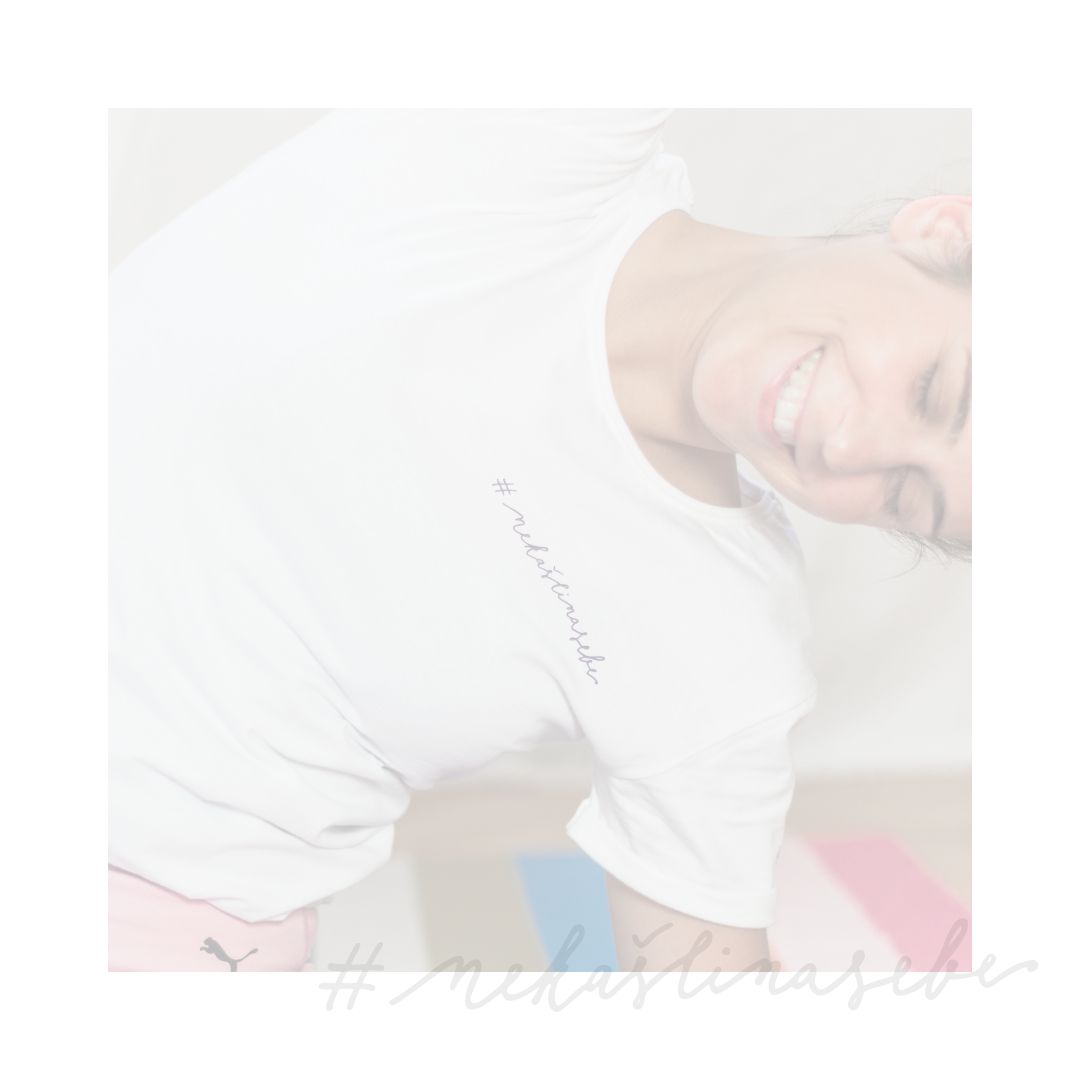
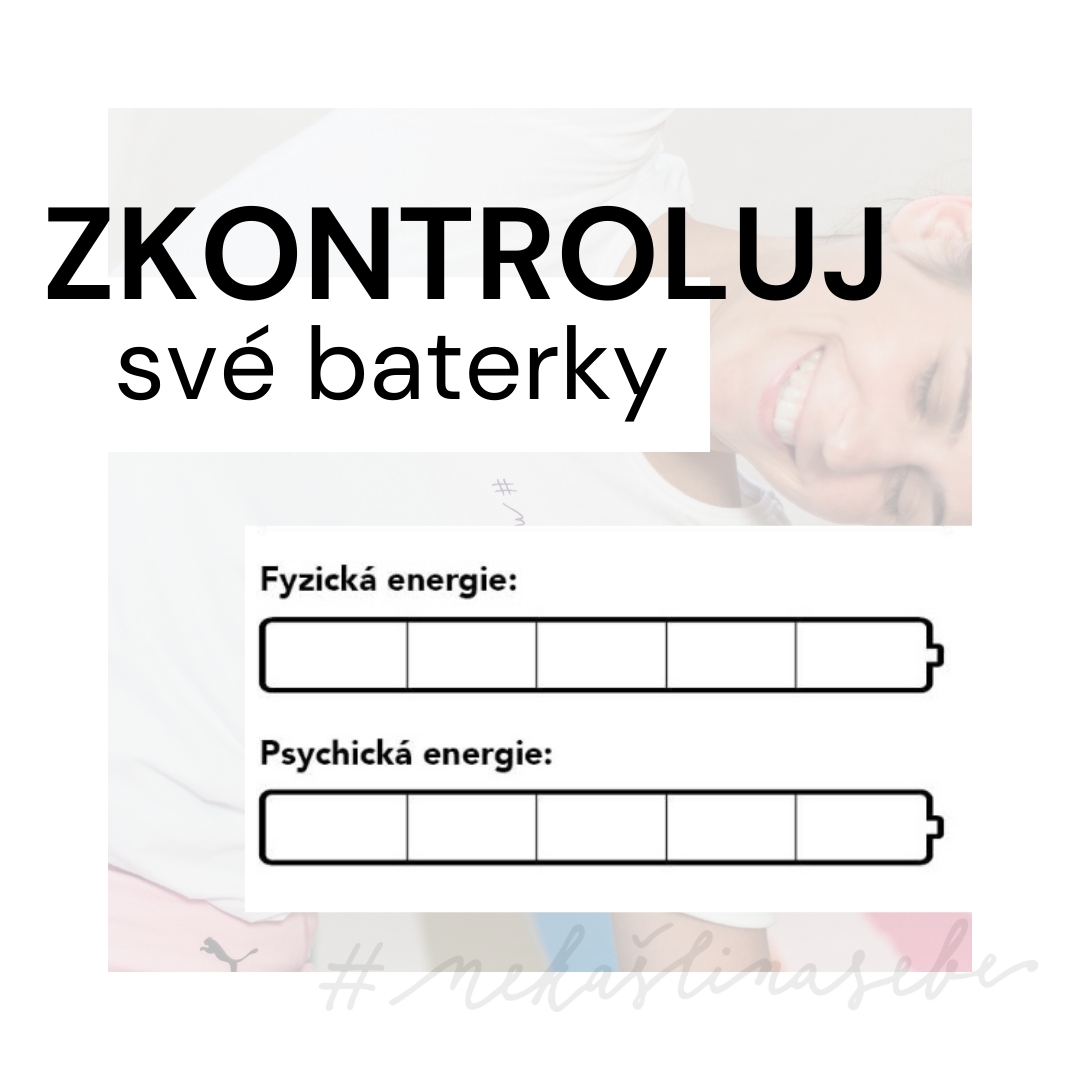
tipy_done

Changed region(s): [[0.2139, 0.4889, 0.9167, 0.8556], [0.0306, 0.1833, 0.825, 0.4278]]

diff --git a/tips/tip1.html b/tips/tip1.html
@@ -77,14 +77,13 @@
 
     <section class="section">
       <div class="container">
-        <div class="row mb-4 align-items-center">
-          <div class="col-md-6" data-aos="fade-up">
+        <div class="row mb-8 align-items-center">
+          <div class="col-md-8,9" data-aos="fade-up">
             <h2>1.tip #nekaslinasebe</h2>
-            <p>Dneska při pondělku tu pro tebe máme tip o... </p>
+            <p>Při pondělním tipu #nekaslinasebe si společně <b>zkontrolujeme svou fyzickou a psychickou baterku</b>. Dnes si můžeš zkusit vyšrafovat své baterky a zjistit, jak jsi na tom energeticky při startu nového týdne.</p>
           </div>
         </div>
       </div>
-
       <div class="site-section pb-0">
         <div class="container">
           <div class="row align-items-stretch">
@@ -93,12 +92,13 @@
             </div>
             <div class="col-md-3 ml-auto" data-aos="fade-up" data-aos-delay="100">
               <div class="sticky-content">
-                <h3 class="h3">Jak na tip #nekaslinasebe?</h3>
-                <p class="mb-4"><span class="text-muted">Hurá na to.</span></p>
+                <h3 class="h3"><b>Jak na tip #nekaslinasebe?</b></h3>
+                <p class="mb-4"><span class="text-muted">Pokud máš:</span></p>
 
                 <div class="mb-5">
-                  <p>1 minuta, 5 minut, 15 minut....</p>
-
+                    <p><b>1 minutku</b>: Představ si v hlavě nejprve fyzickou a poté psychickou baterku. <b>Kolik procent mají?</b></p>
+                    <p><b>5 minut</b>: Nakresli si obě baterky na papír (v ipadu, do notebooku nebo telefonu) a vyšrafuj si, jak jsou dnes plné. Po vyšrafování se zkus zastavit a zeptat se: <b>Kolik mám dnes energie? Stačí mi to na dnešní den?</b></p>
+                    <p><b>15 minut</b>: Prvně následuj předchozí minutový a pětiminutový bod výše. Zkus se zamyslet na otázkou: <b>Co dnes potřebuji pro to, abych energii dočerpal/a? Kde a jak ji mohu vzít? Kam chci energii opravdu vložit?.</b></p>
                 </div>
               </div>
             </div>
